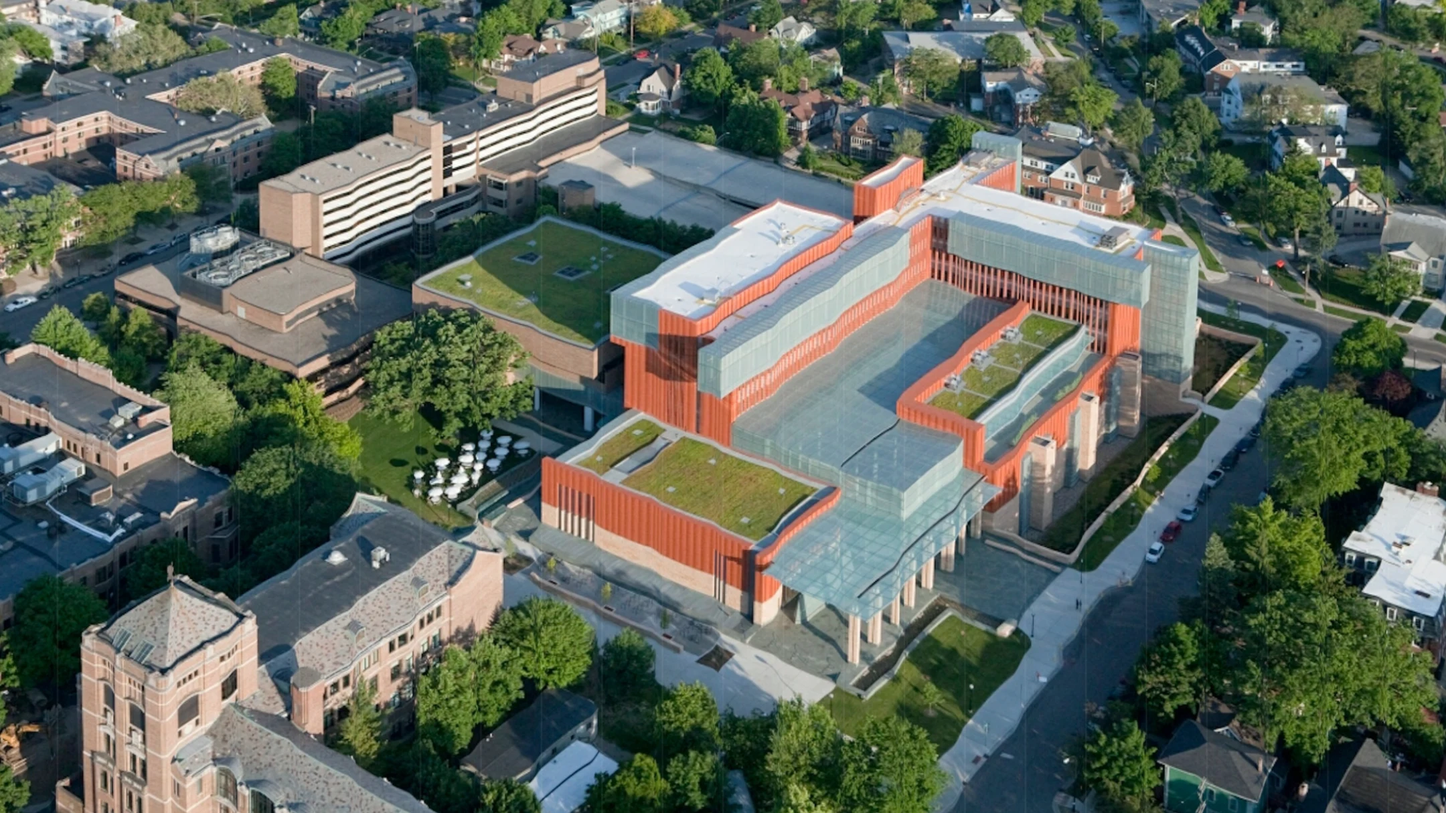
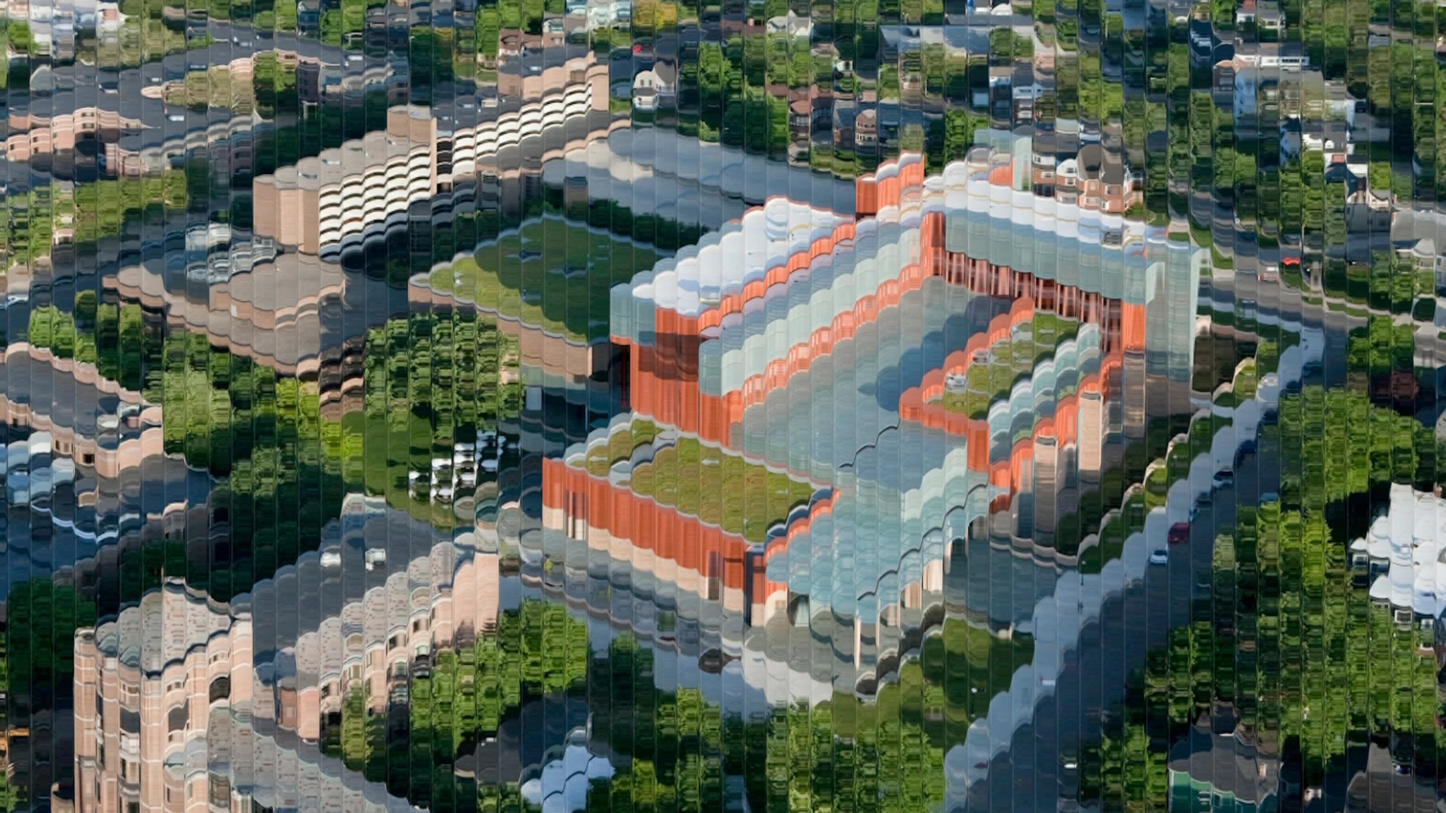
Refine Ross glass and simplify accessible pause controls (#156)
* Refine hero glass and simplify accessible pause controls

* Refine Ross hero with Paper prism glass treatment

diff --git a/src/pages/consulting/accessibility.css b/src/pages/consulting/accessibility.css
@@ -16,12 +16,14 @@
   width: 44px;
   height: 44px;
   flex: 0 0 44px;
-  border: 1px solid currentColor;
+  /* The visible icon is compact; the full 44px square remains clickable. */
+  border: 1px solid transparent;
   border-radius: 50%;
   color: inherit;
   margin-left: auto;
   order: 2;
 }
+.st button.st-motion-toggle:not(:disabled):hover { background: color-mix(in srgb, currentColor 9%, transparent); }
 .st button:disabled { cursor: default; }
 .st-header-inner { min-height: 144px; height: auto; padding-block: 24px; gap: 20px; }
 .st-navlinks { margin-left: 30px; gap: clamp(18px, 2.6vw, 40px); }
@@ -93,5 +95,6 @@
 @media (forced-colors: active) {
   .st :is(a, button, input, textarea, summary):focus-visible { outline: 3px solid Highlight; }
   .st :is(.st-button, .st-nav-contact, .st-motion-toggle, input, textarea) { border: 1px solid ButtonText; }
+  .st button.st-motion-toggle { border-color: ButtonText; }
   .st .st-service-card { border: 1px solid CanvasText; }
 }

diff --git a/src/pages/consulting/Studio.tsx b/src/pages/consulting/Studio.tsx
@@ -379,8 +379,8 @@ export function Studio({
             </Link>
           </nav>
           <button type="button" className="st-motion-toggle" onClick={toggleMotion}
-            aria-label={motionLabel} aria-pressed={motionPaused} disabled={deviceReducedMotion} inert={open}>
-            {motionPaused ? <Play size={18} aria-hidden="true" /> : <Pause size={18} aria-hidden="true" />}
+            aria-label={motionLabel} title={motionLabel} aria-pressed={motionPaused} disabled={deviceReducedMotion} inert={open}>
+            {motionPaused ? <Play size={16} aria-hidden="true" /> : <Pause size={16} aria-hidden="true" />}
           </button>
           <button
             className="st-menu-toggle"

diff --git a/src/features/equator/accessibility.css b/src/features/equator/accessibility.css
@@ -11,12 +11,14 @@
   width: 44px;
   height: 44px;
   margin-left: 14px;
-  border: 1px solid currentColor !important;
+  /* Keep the generous hit area while showing only the compact motion icon. */
+  border: 1px solid transparent !important;
   border-radius: 50%;
   background: transparent;
   pointer-events: auto;
   z-index: 2;
 }
+.eq-motion-toggle:not(:disabled):hover { background: color-mix(in srgb, currentColor 9%, transparent); }
 .eq-motion-toggle:disabled { cursor: default; }
 .eq-header nav { margin-left: auto; }
 .eq-site[data-motion-paused="true"] *,

diff --git a/src/features/equator/EquatorSite.tsx b/src/features/equator/EquatorSite.tsx
@@ -313,7 +313,7 @@ function Header({ home, paused, systemMotion, onToggleMotion }: { home: boolean;
         disabled={systemMotion}
         onClick={onToggleMotion}
       >
-        {paused ? <Play size={18} aria-hidden="true" /> : <Pause size={18} aria-hidden="true" />}
+        {paused ? <Play size={16} aria-hidden="true" /> : <Pause size={16} aria-hidden="true" />}
       </button>
     </header>
   );

diff --git a/docs/design/consulting/hero-photo-source.md b/docs/design/consulting/hero-photo-source.md
@@ -37,6 +37,8 @@ Source page: https://architizer.com/projects/stephen-m-ross-school-of-business-u
 Image: https://architizer-prod.imgix.net/mediadata/projects/532009/bfa13173.jpg?auto=format%2Ccompress&cs=strip&q=80&w=2160
 Source dimensions: 2160 × 1440. Retrieved September 21, 2026. Source: KPF project photography on Architizer. No individual photographer or open reuse license is identified on the project page. No open license is asserted here. This photograph records an earlier phase of the campus; no claim about its capture date or current building configuration is made in the hero.
 
-The actual Paper FlutedGlass shader is rendered at 2160 × 1440 with close pane spacing (size 0.9), distortion 0.018, shadows 0.055, and highlights 0.065. All other shader settings above are retained, with a 3,000,000 maximum pixel count. A centered 1.025× render scale trims the glass shader's edge artifacts. The restrained distortion preserves the roof geometry.
+The actual Paper FlutedGlass shader is rendered at 2160 × 1440, starting from Paper's documented default prism/lines setup. Final settings: size 0.68, distortion 0.1, shadows 0.25, highlights 0.1, edges 0.15, colorBack #0d1319, colorShadow #000000, colorHighlight #ffffff, fit cover, native shader scale 1.04, minPixelRatio 1, maxPixelCount 3,000,000. Angle, shift, stretch, blur, margins, grain, and speed remain 0. The native scale trims image-edge artifacts. Finer flutes and intra-pane refraction create optical depth; restrained highlights avoid an outlined-grid appearance. Distortion is lower than Paper's default 0.5 to keep this detailed aerial legible. Paper supports static as well as animated usage; the export retains its optical treatment without a continuously running canvas on phones.
+
+Official references: https://shaders.paper.design/fluted-glass and https://github.com/paper-design/shaders. This is an adaptation of their documented example, not a claim of endorsement or of a prescribed aesthetic.
 
 WebP exports at quality 88: ross-hero-glass-2160.webp and ross-hero-glass-1080.webp use a 2160 × 1215 landscape crop beginning 70px below the rendered image's top. ross-hero-glass-mobile.webp uses the source rectangle x=780, y=0, width=1200, height=1440, exported at 900 × 1080. The native picture element selects the portrait asset on phones. The portrait fills the lower 74% of the mobile hero and fades into the navigation background, allowing more of Ross to remain visible. Desktop hero height follows 16:9 proportions within 620–1000px with a 42% vertical focal position. Both retain a gradient for legible white controls and headings. The glass treatment is baked into the images; no runtime shader is added.
